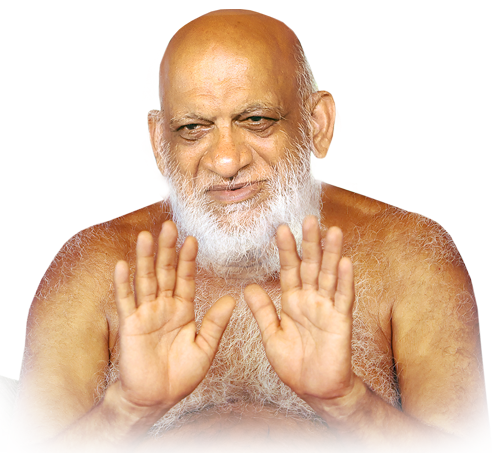
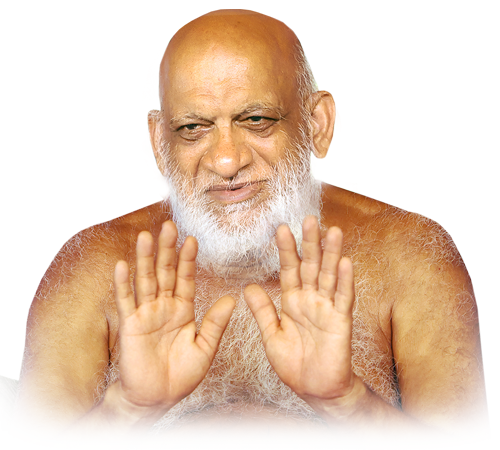
v1.0

diff --git a/resources/views/public/success.blade.php b/resources/views/public/success.blade.php
@@ -1,7 +1,7 @@
 @extends('layouts.app')
 
 @section('content')
-<div class="max-w-3xl mx-auto px-4 sm:px-6 lg:px-8 py-12">
+<div class="max-w-5xl mx-auto px-4 sm:px-6 lg:px-8 py-12">
     
     <div class="bg-white rounded-3xl shadow-2xl border-2 border-amber-400 overflow-hidden text-center">
         
@@ -59,22 +59,67 @@
                 </div>
             </div>
 
+            <!-- 2-Column Social & Varshayog Group Section -->
+            <div class="grid grid-cols-1 md:grid-cols-2 gap-6 text-left">
+                <!-- Left Column: Social Media Handles Invite Banner -->
+                <div class="bg-gradient-to-r from-amber-500 via-amber-400 to-amber-500 rounded-2xl p-5 border-2 border-amber-300 shadow-lg text-maroon-950 flex flex-col justify-between space-y-4">
+                    <div class="font-tiro font-extrabold text-base sm:text-lg leading-snug text-center drop-shadow-sm">
+                        इंदौर शिविर की समस्त फोटो एल्बम, लाइव प्रसारण लिंक, विशेष वीडियो एवं रील प्राप्त करने के लिए पुण्योदय विद्यापथ चैनल के सोशल मीडिया हैंडल्स से जुड़िये:
+                    </div>
 
+                    <div class="flex flex-col gap-2.5 pt-1">
+                        <!-- 1. YouTube Channel -->
+                        <a href="https://www.youtube.com/@punyodayavidyapath" target="_blank" rel="noopener noreferrer" class="bg-red-600 hover:bg-red-700 text-white font-bold text-xs sm:text-sm px-4 py-3 rounded-xl shadow-md transition flex items-center justify-center gap-2 transform hover:-translate-y-0.5">
+                            <svg class="w-5 h-5 fill-current text-white flex-shrink-0" viewBox="0 0 24 24"><path d="M23.498 6.186a3.016 3.016 0 0 0-2.122-2.136C19.505 3.545 12 3.545 12 3.545s-7.505 0-9.377.505A3.017 3.017 0 0 0 .502 6.186C0 8.07 0 12 0 12s0 3.93.502 5.814a3.016 3.016 0 0 0 2.122 2.136c1.871.505 9.376.505 9.376.505s7.505 0 9.377-.505a3.015 3.015 0 0 0 2.122-2.136C24 15.93 24 12 24 12s0-3.93-.502-5.814zM9.545 15.568V8.432L15.818 12l-6.273 3.568z"/></svg>
+                            <span>यूट्यूब चैनल Subscribe करे (1,32,000 Subscribers)</span>
+                        </a>
 
-            <!-- Action Buttons -->
-            <div class="flex flex-col sm:flex-row items-center justify-center gap-4 pt-4 border-t border-slate-200">
-                <a href="{{ route('registration.slip.pdf', $registration->registration_number) }}" class="w-full sm:w-auto bg-maroon-800 hover:bg-maroon-900 text-amber-300 font-bold px-6 py-3.5 rounded-xl shadow-lg transition flex items-center justify-center gap-2 text-base">
-                    📥 पंजीयन पर्ची PDF डाउनलोड करें
-                </a>
+                        <!-- 2. Instagram Page -->
+                        <a href="https://www.instagram.com/punyodayavidyapath" target="_blank" rel="noopener noreferrer" class="bg-gradient-to-tr from-amber-500 via-rose-600 to-purple-600 hover:opacity-95 text-white font-bold text-xs sm:text-sm px-4 py-3 rounded-xl shadow-md transition flex items-center justify-center gap-2 transform hover:-translate-y-0.5">
+                            <svg class="w-5 h-5 fill-current text-white flex-shrink-0" viewBox="0 0 24 24"><path d="M12 2.163c3.204 0 3.584.012 4.85.07 3.252.148 4.771 1.691 4.919 4.919.058 1.265.069 1.645.069 4.849 0 3.205-.012 3.584-.069 4.849-.149 3.225-1.664 4.771-4.919 4.919-1.266.058-1.644.07-4.85.07-3.204 0-3.584-.012-4.849-.07-3.26-.149-4.771-1.699-4.919-4.92-.058-1.265-.07-1.644-.07-4.849 0-3.204.013-3.583.07-4.849.149-3.227 1.664-4.771 4.919-4.919 1.266-.057 1.645-.069 4.849-.069zm0-2.163c-3.259 0-3.667.014-4.947.072-4.358.2-6.78 2.618-6.98 6.98-.059 1.281-.073 1.689-.073 4.948 0 3.259.014 3.668.072 4.948.2 4.358 2.618 6.78 6.98 6.98 1.281.058 1.689.072 4.948.072 3.259 0 3.668-.014 4.948-.072 4.354-.2 6.782-2.618 6.979-6.98.059-1.28.073-1.689.073-4.948 0-3.259-.014-3.667-.072-4.947-.196-4.354-2.617-6.78-6.979-6.98-1.281-.059-1.69-.073-4.949-.073zm0 5.838c-3.403 0-6.162 2.759-6.162 6.162s2.759 6.163 6.162 6.163 6.162-2.759 6.162-6.163c0-3.403-2.759-6.162-6.162-6.162zm0 10.162c-2.209 0-4-1.79-4-4 0-2.209 1.791-4 4-4s4 1.791 4 4c0 2.21-1.791 4-4 4zm6.406-11.845c-.796 0-1.441.645-1.441 1.44s.645 1.44 1.441 1.44c.795 0 1.439-.645 1.439-1.44s-.644-1.44-1.439-1.44z"/></svg>
+                            <span>इन्स्टाग्राम पेज follow करे (61,500 Followers)</span>
+                        </a>
 
-                <button onclick="window.print()" class="w-full sm:w-auto bg-slate-800 hover:bg-slate-900 text-white font-bold px-6 py-3.5 rounded-xl shadow transition flex items-center justify-center gap-2 text-base">
-                    🖨 पर्ची प्रिंट करें
-                </button>
+                        <!-- 3. Facebook Page -->
+                        <a href="https://www.facebook.com/punyodayavidyapath" target="_blank" rel="noopener noreferrer" class="bg-blue-600 hover:bg-blue-700 text-white font-bold text-xs sm:text-sm px-4 py-3 rounded-xl shadow-md transition flex items-center justify-center gap-2 transform hover:-translate-y-0.5">
+                            <svg class="w-5 h-5 fill-current text-white flex-shrink-0" viewBox="0 0 24 24"><path d="M24 12.073c0-6.627-5.373-12-12-12s-12 5.373-12 12c0 5.99 4.388 10.954 10.125 11.854v-8.385H7.078v-3.47h3.047V9.43c0-3.007 1.792-4.669 4.533-4.669 1.312 0 2.686.235 2.686.235v2.953H15.83c-1.491 0-1.956.925-1.956 1.874v2.25h3.328l-.532 3.47h-2.796v8.385C19.612 23.027 24 18.062 24 12.073z"/></svg>
+                            <span>फेसबुक पेज follow करे (92,000 Followers)</span>
+                        </a>
 
-                <a href="{{ route('home') }}" class="w-full sm:w-auto bg-slate-200 hover:bg-slate-300 text-slate-800 font-semibold px-6 py-3.5 rounded-xl transition text-base">
-                    मुख्य पृष्ठ पर जाएं
-                </a>
+                        <!-- 4. WhatsApp Channel -->
+                        <a href="https://whatsapp.com/channel/0029VaOMwvf002T5or071M3u" target="_blank" rel="noopener noreferrer" class="bg-emerald-600 hover:bg-emerald-700 text-white font-bold text-xs sm:text-sm px-4 py-3 rounded-xl shadow-md transition flex items-center justify-center gap-2 transform hover:-translate-y-0.5">
+                            <svg class="w-5 h-5 fill-current text-emerald-100 flex-shrink-0" viewBox="0 0 24 24"><path d="M.057 24l1.687-6.163c-1.041-1.804-1.588-3.849-1.587-5.946.003-6.556 5.338-11.891 11.893-11.891 3.181.001 6.167 1.24 8.413 3.488 2.245 2.248 3.481 5.236 3.48 8.414-.003 6.557-5.338 11.892-11.893 11.892-1.99-.001-3.951-.5-5.688-1.448l-6.305 1.654zm6.597-3.807c1.676.995 3.276 1.591 5.392 1.592 5.448 0 9.886-4.434 9.889-9.885.002-5.462-4.415-9.89-9.881-9.892-5.452 0-9.887 4.434-9.889 9.884-.001 2.225.651 3.891 1.746 5.634l-.999 3.648 3.742-.981zm11.387-5.464c-.074-.124-.272-.198-.57-.347-.297-.149-1.758-.868-2.031-.967-.272-.099-.47-.149-.669.149-.198.297-.768.967-.941 1.165-.173.198-.347.223-.644.074-.297-.149-1.255-.462-2.39-1.475-.883-.788-1.48-1.761-1.653-2.059-.173-.297-.018-.458.13-.606.134-.133.297-.347.446-.521.151-.172.2-.296.3-.495.099-.198.05-.372-.025-.521-.075-.148-.669-1.611-.916-2.206-.242-.579-.487-.501-.669-.51l-.57-.01c-.198 0-.52.074-.792.372s-1.04 1.016-1.04 2.479 1.065 2.876 1.213 3.074c.149.198 2.095 3.2 5.076 4.487.709.306 1.263.489 1.694.626.712.226 1.36.194 1.872.118.571-.085 1.758-.719 2.006-1.413.248-.695.248-1.29.173-1.414z"/></svg>
+                            <span>व्हाट्सप्प चैनल से जुड़िये (12,000 Followers)</span>
+                        </a>
+                    </div>
+                </div>
+
+                <!-- Right Column: Indore Varshayog WhatsApp Group Banner -->
+                <div class="bg-gradient-to-r from-amber-500 via-amber-400 to-amber-500 rounded-2xl p-5 border-2 border-amber-300 shadow-lg text-maroon-950 flex flex-col justify-between items-center text-center space-y-4">
+                    <!-- Heading -->
+                    <div class="font-tiro font-extrabold text-base sm:text-lg leading-snug drop-shadow-sm">
+                        इंदौर वर्षायोग के व्हाट्सएप ग्रुप से जुड़िये
+                    </div>
+
+                    <!-- Poster Circle Graphic -->
+                    <div class="relative w-44 h-44 sm:w-48 sm:h-48 rounded-full overflow-hidden border-4 border-amber-300 shadow-xl mx-auto my-1 transform hover:scale-105 transition duration-300">
+                        <img src="{{ asset('images/indore_varshayog.jpg') }}" alt="इंदौर वर्षायोग" class="w-full h-full object-cover">
+                    </div>
+
+                    <!-- Member Count Subtitle -->
+                    <div class="bg-maroon-900/10 text-maroon-950 border border-maroon-900/20 px-4 py-1.5 rounded-full font-bold text-xs sm:text-sm inline-block">
+                        व्हाट्सप्प ग्रुप – 55,000+ Members
+                    </div>
+
+                    <!-- Join WhatsApp Group Button -->
+                    <a href="https://chat.whatsapp.com/K9Cl5ATw0PCFrgJghgSw0p" target="_blank" rel="noopener noreferrer" class="w-full bg-emerald-700 hover:bg-emerald-800 text-white font-extrabold text-sm sm:text-base py-3.5 px-6 rounded-xl shadow-lg transition flex items-center justify-center gap-2 transform hover:-translate-y-0.5">
+                        <svg class="w-6 h-6 fill-current text-emerald-200 flex-shrink-0" viewBox="0 0 24 24"><path d="M.057 24l1.687-6.163c-1.041-1.804-1.588-3.849-1.587-5.946.003-6.556 5.338-11.891 11.893-11.891 3.181.001 6.167 1.24 8.413 3.488 2.245 2.248 3.481 5.236 3.48 8.414-.003 6.557-5.338 11.892-11.893 11.892-1.99-.001-3.951-.5-5.688-1.448l-6.305 1.654zm6.597-3.807c1.676.995 3.276 1.591 5.392 1.592 5.448 0 9.886-4.434 9.889-9.885.002-5.462-4.415-9.89-9.881-9.892-5.452 0-9.887 4.434-9.889 9.884-.001 2.225.651 3.891 1.746 5.634l-.999 3.648 3.742-.981zm11.387-5.464c-.074-.124-.272-.198-.57-.347-.297-.149-1.758-.868-2.031-.967-.272-.099-.47-.149-.669.149-.198.297-.768.967-.941 1.165-.173.198-.347.223-.644.074-.297-.149-1.255-.462-2.39-1.475-.883-.788-1.48-1.761-1.653-2.059-.173-.297-.018-.458.13-.606.134-.133.297-.347.446-.521.151-.172.2-.296.3-.495.099-.198.05-.372-.025-.521-.075-.148-.669-1.611-.916-2.206-.242-.579-.487-.501-.669-.51l-.57-.01c-.198 0-.52.074-.792.372s-1.04 1.016-1.04 2.479 1.065 2.876 1.213 3.074c.149.198 2.095 3.2 5.076 4.487.709.306 1.263.489 1.694.626.712.226 1.36.194 1.872.118.571-.085 1.758-.719 2.006-1.413.248-.695.248-1.29.173-1.414z"/></svg>
+                        <span>व्हाट्सएप ग्रुप से जुड़िये</span>
+                    </a>
+                </div>
             </div>
+
+
 
         </div>
 

diff --git a/resources/views/public/home.blade.php b/resources/views/public/home.blade.php
@@ -33,6 +33,10 @@
         <!-- Acharya Vidyasagar Ji Maharaj Blessing Card -->
         <!-- Acharya Vidyasagar Ji Maharaj Blessing Block (Plain Layout) -->
         <div class="max-w-5xl mx-auto space-y-1 py-2">
+            <div class="mb-2">
+                <img src="{{ asset('images/acharya_vidyasagar_ji.png') }}" alt="आचार्यश्रेष्ठ श्री १०८ विद्यासागर जी महाराज" class="w-[280px] h-[280px] sm:w-[350px] sm:h-[350px] md:w-[400px] md:h-[400px] mx-auto object-contain drop-shadow-2xl">
+            </div>
+
             <div class="text-amber-400 font-extrabold text-base sm:text-lg md:text-xl flex items-center justify-center gap-2">
                 <span>👑</span> <span>अतिशयकारी आशीर्वाद</span> <span>👑</span>
             </div>
@@ -92,7 +96,7 @@
             ];
         @endphp
 
-        <div class="pt-1 sm:pt-2 max-w-7xl mx-auto space-y-3"
+        <div class="-mt-12 sm:-mt-16 md:-mt-20 relative z-20 max-w-7xl mx-auto space-y-3"
              x-data="{
                 activeIdx: 0,
                 total: {{ count($allMaharajs) }},
@@ -263,14 +267,16 @@
                 <div class="max-w-6xl mx-auto">
                     <div class="grid grid-cols-1 sm:grid-cols-2 lg:grid-cols-4 gap-6">
                         @foreach($advisers as $adv)
-                            <div class="bg-maroon-950/85 p-5 rounded-2xl border-2 border-amber-500/50 text-center space-y-4 shadow-xl backdrop-blur-md transform hover:-translate-y-1 transition duration-300 flex flex-col items-center justify-between">
-                                <!-- Top Designation Title Pill -->
-                                <div class="inline-block bg-amber-500/20 text-amber-300 border border-amber-400/50 text-xs sm:text-sm font-bold px-3 py-1 rounded-full uppercase tracking-wider">
-                                    {{ $adv->designation }}
+                            <div class="bg-maroon-950/85 p-5 rounded-2xl border-2 border-amber-500/50 text-center shadow-xl backdrop-blur-md transform hover:-translate-y-1 transition duration-300 flex flex-col items-center justify-start h-full">
+                                <!-- Top Designation Title Pill (Fixed Height Container) -->
+                                <div class="h-8 flex items-center justify-center">
+                                    <div class="inline-block bg-amber-500/20 text-amber-300 border border-amber-400/50 text-xs sm:text-sm font-bold px-3 py-1 rounded-full uppercase tracking-wider">
+                                        {{ $adv->designation }}
+                                    </div>
                                 </div>
 
-                                <!-- Photo Frame in Center -->
-                                <div class="my-1">
+                                <!-- Photo Frame in Center (Aligned in 1 straight horizontal line) -->
+                                <div class="my-4">
                                     @if(!empty($adv->photo) || !empty($adv->photo_path))
                                         <img src="{{ asset('storage/' . ($adv->photo ?? $adv->photo_path)) }}" alt="{{ $adv->name }}" class="w-24 h-24 sm:w-28 sm:h-28 rounded-full mx-auto object-cover border-2 border-amber-400 shadow-md">
                                     @else
@@ -281,7 +287,7 @@
                                 </div>
 
                                 <!-- Leader Name Below -->
-                                <div class="font-tiro text-amber-200 font-extrabold text-base sm:text-lg leading-snug pt-1">
+                                <div class="font-tiro text-amber-200 font-extrabold text-base sm:text-lg leading-snug flex-1 flex items-center justify-center text-center">
                                     {{ $adv->name }}
                                 </div>
                             </div>

diff --git a/database/seeders/SanskarShivirSeeder.php b/database/seeders/SanskarShivirSeeder.php
@@ -117,6 +117,9 @@ class SanskarShivirSeeder extends Seeder
         ]);
 
         // 3. Create Dynamic CMS Sections for Shivir 2026
+        ShivirSectionItem::whereIn('shivir_section_id', ShivirSection::where('shivir_id', $shivir2026->id)->pluck('id'))->delete();
+        ShivirSection::where('shivir_id', $shivir2026->id)->delete();
+
         $secPunyarjak = ShivirSection::create([
             'shivir_id' => $shivir2026->id,
             'title' => 'शिविर पुण्यार्जक परिवार',
@@ -233,7 +236,7 @@ class SanskarShivirSeeder extends Seeder
         $secOrganizers = ShivirSection::create([
             'shivir_id' => $shivir2026->id,
             'title' => 'आयोजक समिति',
-            'subtitle' => 'दिगंबर जैन धर्मप्रभावना समिति एवं सकल दिगंबर जैन समाज, इंदौर',
+            'subtitle' => '',
             'description' => 'शिविर के मुख्य आयोजक।',
             'background' => 'bg-maroon-900',
             'sort_order' => 4,
@@ -241,7 +244,7 @@ class SanskarShivirSeeder extends Seeder
         ]);
 
         $organizerItems = [
-            ['name' => 'आयोजक – श्री दिगंबर जैन धर्मप्रभावना समिति 2026 इंदौर', 'designation' => 'आयोजक – श्री दिगंबर जैन धर्मप्रभावना समिति 2026 इंदौर', 'sort_order' => 1],
+            ['name' => 'आयोजक – श्री दिगंबर जैन धर्मप्रभावना समिति 2026, इंदौर', 'designation' => 'आयोजक – श्री दिगंबर जैन धर्मप्रभावना समिति 2026, इंदौर', 'sort_order' => 1],
             ['name' => 'विनीत – सकल दिगंबर जैन समाज, इंदौर', 'designation' => 'विनीत – सकल दिगंबर जैन समाज, इंदौर', 'sort_order' => 2],
         ];
 
